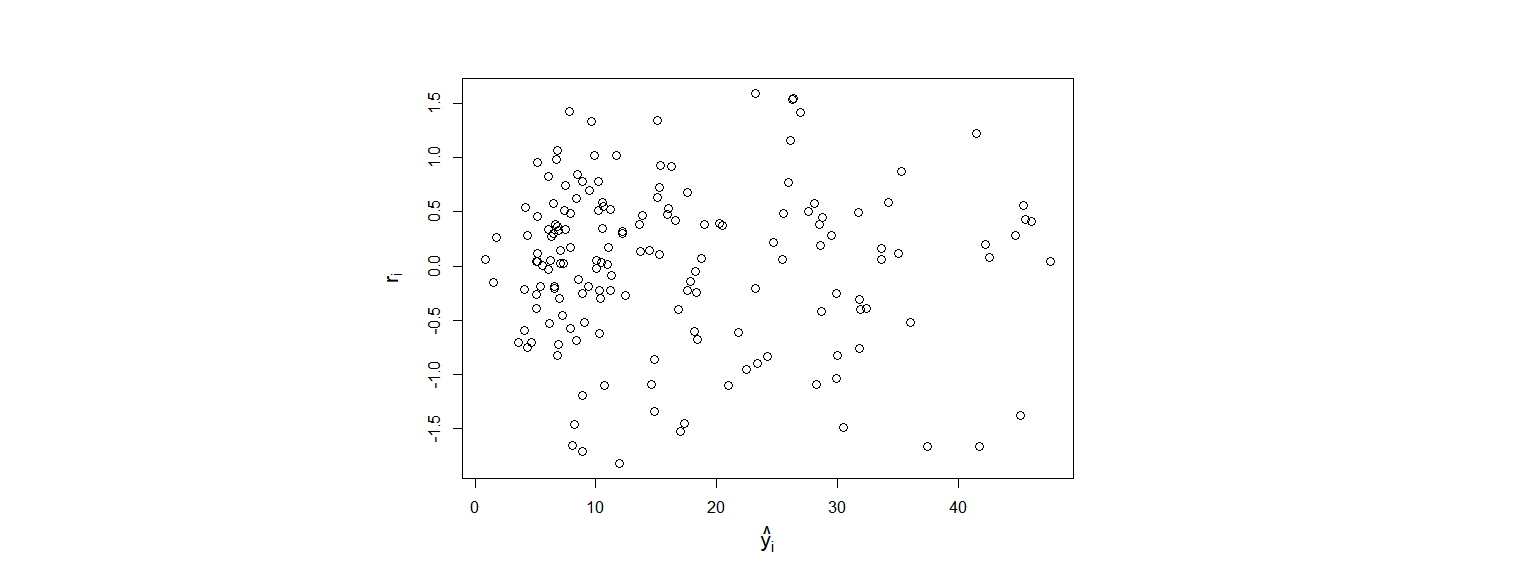
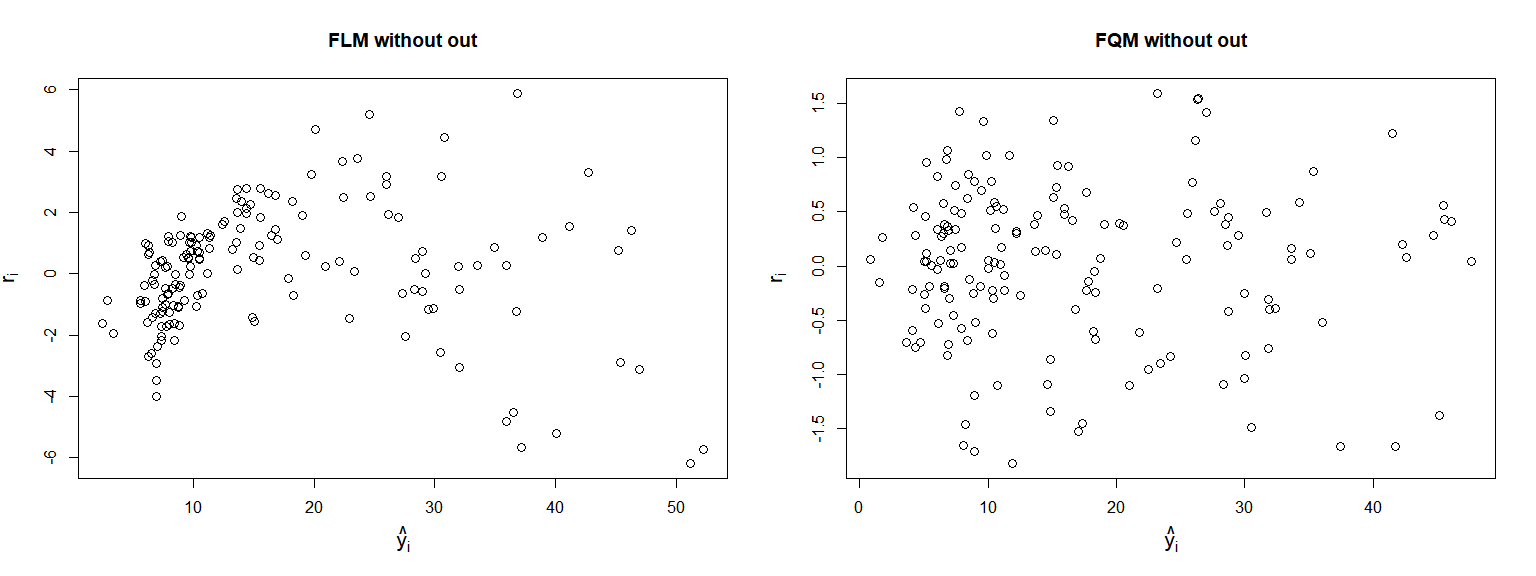
test

diff --git a/README.md b/README.md
@@ -148,8 +148,12 @@ than 97% of the variability.
 
     ## [1] 0.9774696
 
-Plots of the estimated parameters with and wothout outliers.
+Predicted vs residuals in the classic (CL) FLM and FQM fit, both without
+outliers, are shown in the first pair of plots. Estimated *β* parameters
+are compared among classic (CL), robust (ROB) and classic after outlier
+removal (CL without out) in the second pair of plots, both for FLM and
+FQM fit.
 
-![](README_files/figure-markdown_strict/plotscompar-1.png)![](README_files/figure-markdown_strict/plotscompar-2.png)![](README_files/figure-markdown_strict/plotscompar-3.png)![](README_files/figure-markdown_strict/plotscompar-4.png)
+![](README_files/figure-markdown_strict/plotscompar-1.png)![](README_files/figure-markdown_strict/plotscompar-2.png)
 
 We now show surface differences between
